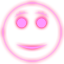
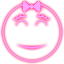
add new girl art. Changed art in girl animations

Changed region(s): [[0.0, 0.0, 1.0, 1.0], [0.4062, 0.6875, 0.5938, 0.7188], [0.4062, 0.7812, 0.5625, 0.8125]]

diff --git a/WindowsGame1/Game Objects/Static Objects/PlayerEnd.cs b/WindowsGame1/Game Objects/Static Objects/PlayerEnd.cs
@@ -42,13 +42,13 @@ namespace GravityShift
         public void UpdateFace(double time)
         {
             mTimer = time;
-            if (mTimer%4 < 3.5)// Eyes open for 3.5 seconds, .5 closed (looks like a blink)
+            if (mTimer%4 < 2.5)// Eyes open for 3.5 seconds, .5 closed 
             {
-                mCurrentTexture = PlayerFaces.FromString("GirlSmile");
+                mCurrentTexture = PlayerFaces.FromString("GirlSmile2");
             }
             else
             {
-                mCurrentTexture = PlayerFaces.FromString("GirlCalm");
+                mCurrentTexture = PlayerFaces.FromString("GirlSmile");
             }
         }
 

diff --git a/WindowsGame1/Level.cs b/WindowsGame1/Level.cs
@@ -761,7 +761,7 @@ namespace GravityShift
                         if (collided && obj is PlayerEnd && physObj is Player)
                         {
                             mPlayer.mCurrentTexture = PlayerFaces.FromString("Laugh");
-                            mPlayerEnd.mCurrentTexture = PlayerFaces.FromString("GirlHappy");
+                            mPlayerEnd.mCurrentTexture = PlayerFaces.FromString("GirlLaugh3");
 
                             GameSound.StopOthersAndPlay(GameSound.level_stageVictory);
                             mPhysicsEnvironment.GravityDirection = GravityDirections.Down;
